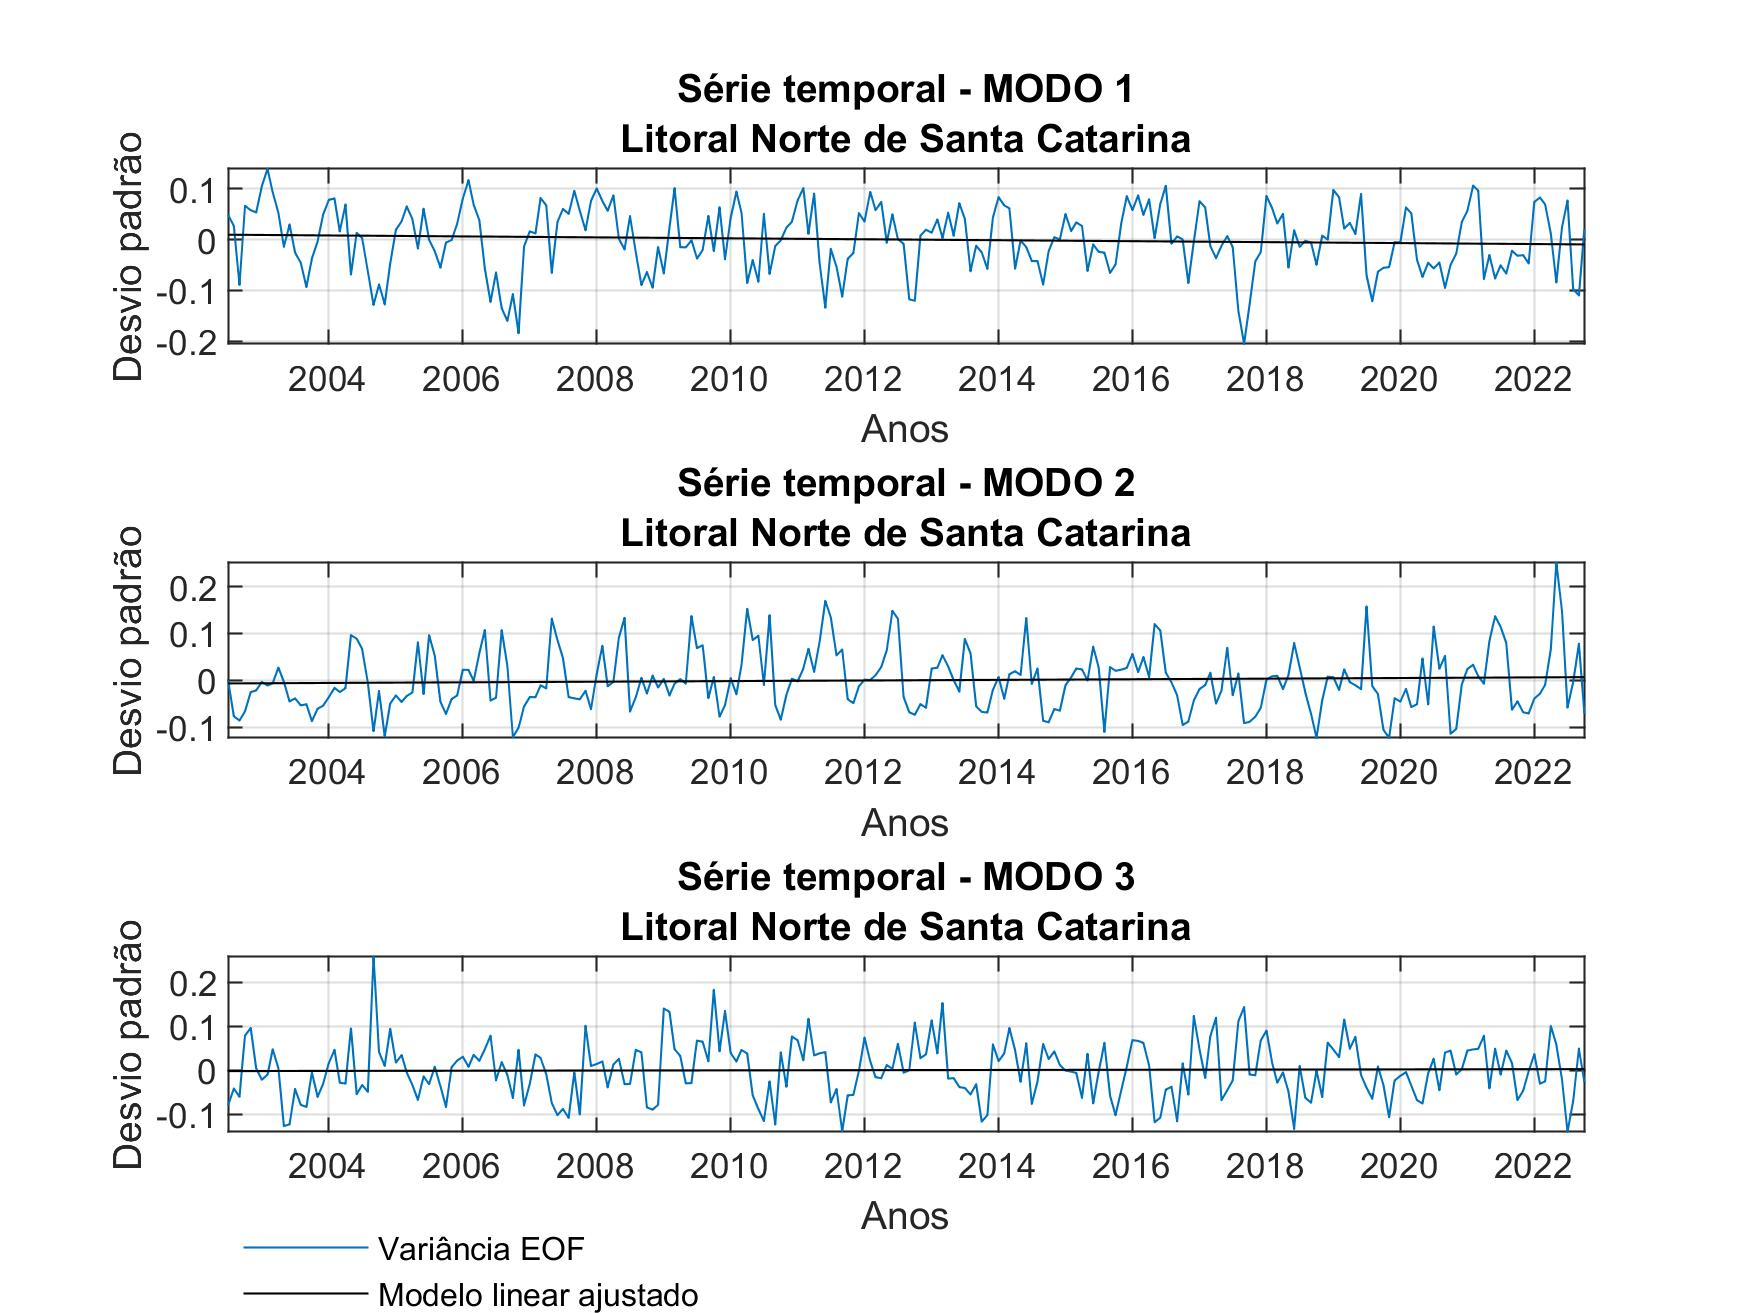
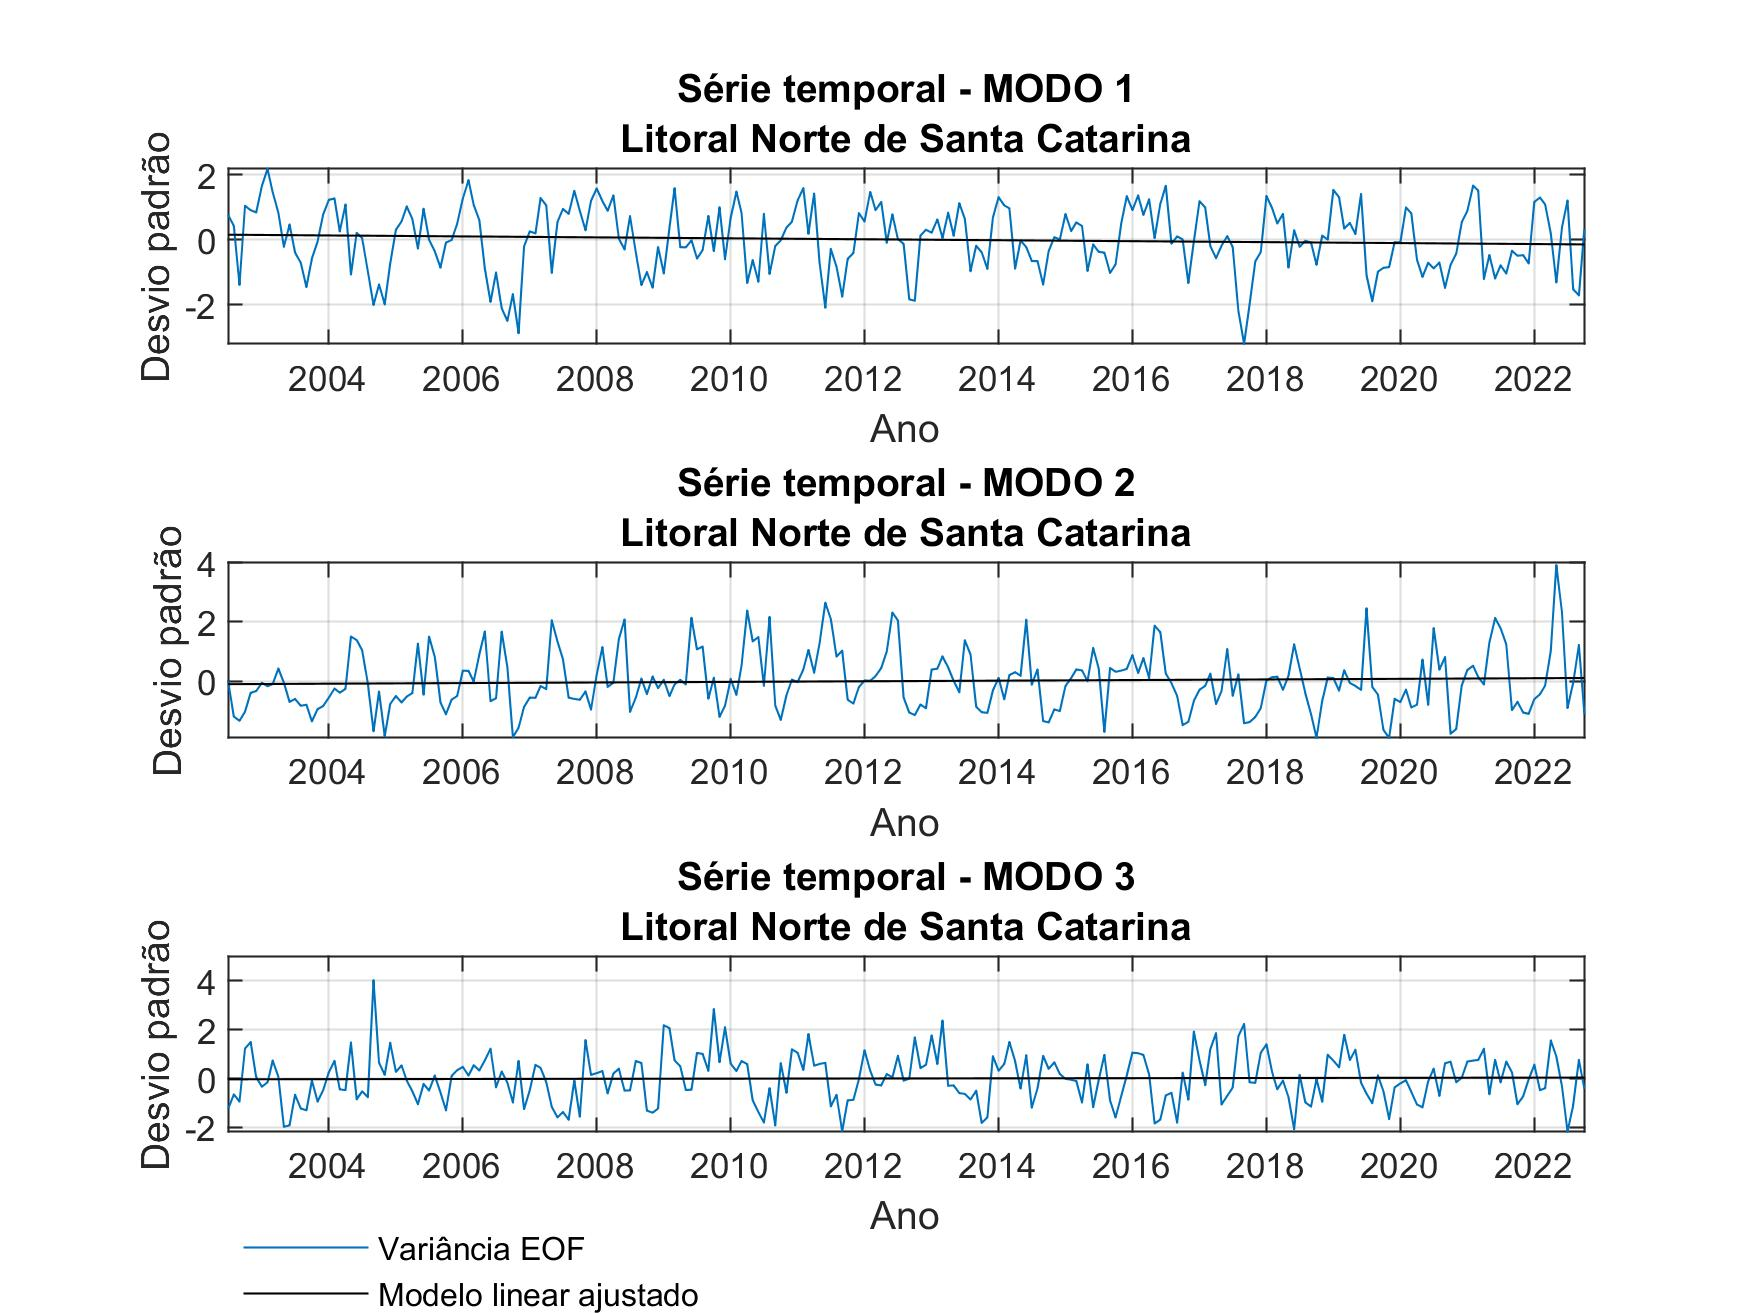
Time series figures modify

diff --git a/ts_variance.m b/ts_variance.m
@@ -19,6 +19,7 @@ load('timeMensal_1')
 time1 = decyear(timeMensal_1');
 v1=v;
 clear v 
+
 load('v_regiao2.mat')
 load('timeMensal_2')
 time2 = decyear(timeMensal_2');
@@ -30,17 +31,18 @@ figure (1)
 residuo1 = [];
 for modo=1:3
     subplot(3,1,modo)
-    plot(timeMensal_1,v1(:,modo))
+    st1 = sqrt(length(time1))*v1(:,modo);
+    plot(timeMensal_1,st1)
     grid
     title({['Série temporal - MODO ', num2str(modo)], 'Litoral Norte de Santa Catarina'})
     ylabel('Desvio padrão')
-    xlabel('Anos')
+    xlabel('Ano')
     hold on
     A1 = [ones(length(time1),1) time1];
-    x1 = A1\v1(:,modo);
+    x1 = A1\st1;
     plot(timeMensal_1',A1*x1,'k','DatetimeTickFormat','yyyy')
 
-    residuo1(:, modo) = v1(:,modo)-A1*x1;
+    residuo1(:, modo) = st1-A1*x1;
 end
 clear modo
 legend('Variância EOF','Modelo linear ajustado','Orientation','vertical', ...
@@ -53,17 +55,18 @@ print('regiao01_linear', '-djpeg','-r300');
 figure (2)
 for modo=1:3
     subplot(3,1,modo)
-    plot(timeMensal_1,v1(:,modo))
+    st1 = sqrt(length(timeMensal_1))*v1(:,modo);
+    plot(timeMensal_1,st1)
     grid
     title({['Série temporal - MODO ', num2str(modo)], 'Litoral Norte de Santa Catarina'})
     ylabel('Desvio padrão')
-    xlabel('Anos')
+    xlabel('Ano')
     hold on
     
     A1 = [ones(length(time1),1) sin(2*pi*time1) cos(2*pi*time1) ...
         sin(4*pi*time1) cos(4*pi*time1)];
     x1 = A1\residuo1(:,modo);
-    plot(timeMensal_1',A1*x1,'k','DatetimeTickFormat','MM-yyyy')
+    plot(timeMensal_1',A1*x1,'k','DatetimeTickFormat','yyyy')
 end
 clear modo
 legend('Variância EOF','Modelo senoidal ajustado','Orientation','vertical', ...
@@ -76,21 +79,22 @@ figure (3)
 residuo2 = [];
 for modo=1:3
     subplot(3,1,modo)
-    plot(timeMensal_2,v2(:,modo))
+    st2 = sqrt(length(timeMensal_2))*v2(:,modo);
+    plot(timeMensal_2,st2)
     grid
     title({['Série temporal - MODO ', num2str(modo)], 'Desembocadura da Baía da Babitonga'})
     ylabel('Desvio padrão')
-    xlabel('Anos')
+    xlabel('Ano')
     hold on
     A2 = [ones(length(time2),1) time2];
-    x2 = A2\v2(:,modo);
+    x2 = A2\st2;
     plot(timeMensal_2',A2*x2,'k','DatetimeTickFormat','yyyy')
     
-    residuo2(:, modo) = v2(:,modo)-A2*x2;
+    residuo2(:, modo) = st2-A2*x2;
 end
 clear modo
 
-legend('Variância EOF','Modelo senoidal ajustado','Orientation','vertical', ...
+legend('Variância EOF','Modelo linear ajustado','Orientation','vertical', ...
     'Position',[0.17 0.007 0.2 0.05],'EdgeColor','none')
 set(gcf,'renderer','painters'); %determina o tipo de renderizador. Paiters tem melhor aplicacao para graficos em 2D
 set(gcf,'color','w'); %figura em fundo branco
@@ -99,17 +103,18 @@ print('regiao02_linear', '-djpeg','-r300');
 figure (4)
 for modo=1:3
     subplot(3,1,modo)
-    plot(timeMensal_2,v2(:,modo))
+    st2 = sqrt(length(timeMensal_2))*v2(:,modo);
+    plot(timeMensal_2,st2)
     grid
     title({['Série temporal - MODO ', num2str(modo)], 'Desembocadura da Baía da Babitonga'})
     ylabel('Desvio padrão')
-    xlabel('Anos')
+    xlabel('Ano')
     hold on
     
     A2 = [ones(length(time2),1) sin(2*pi*time2) cos(2*pi*time2) ...
         sin(4*pi*time2) cos(4*pi*time2)];
     x2 = A2\residuo2(:,modo);
-    plot(timeMensal_2',A2*x2,'k','DatetimeTickFormat','MM-yyyy')
+    plot(timeMensal_2,A2*x2,'k','DatetimeTickFormat','yyyy')
 end
 clear modo
 
